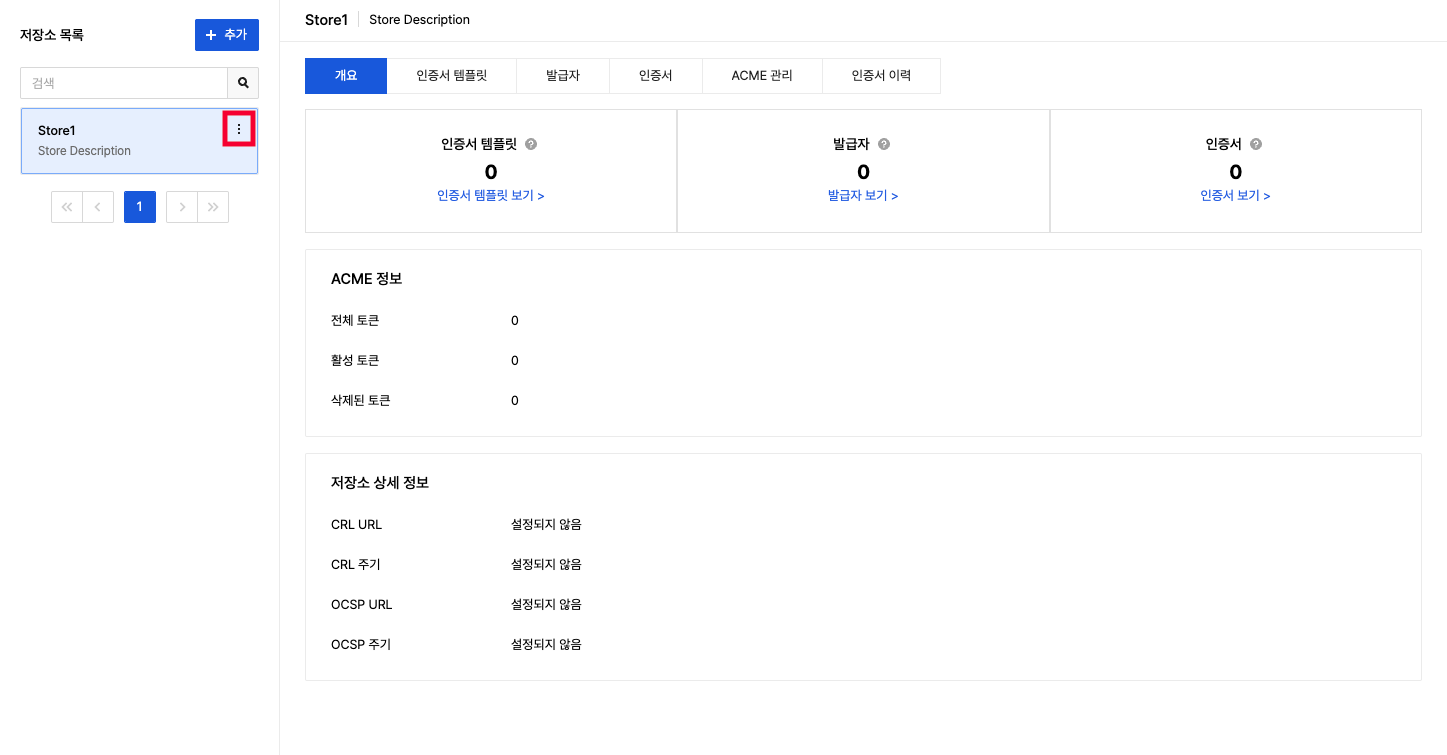
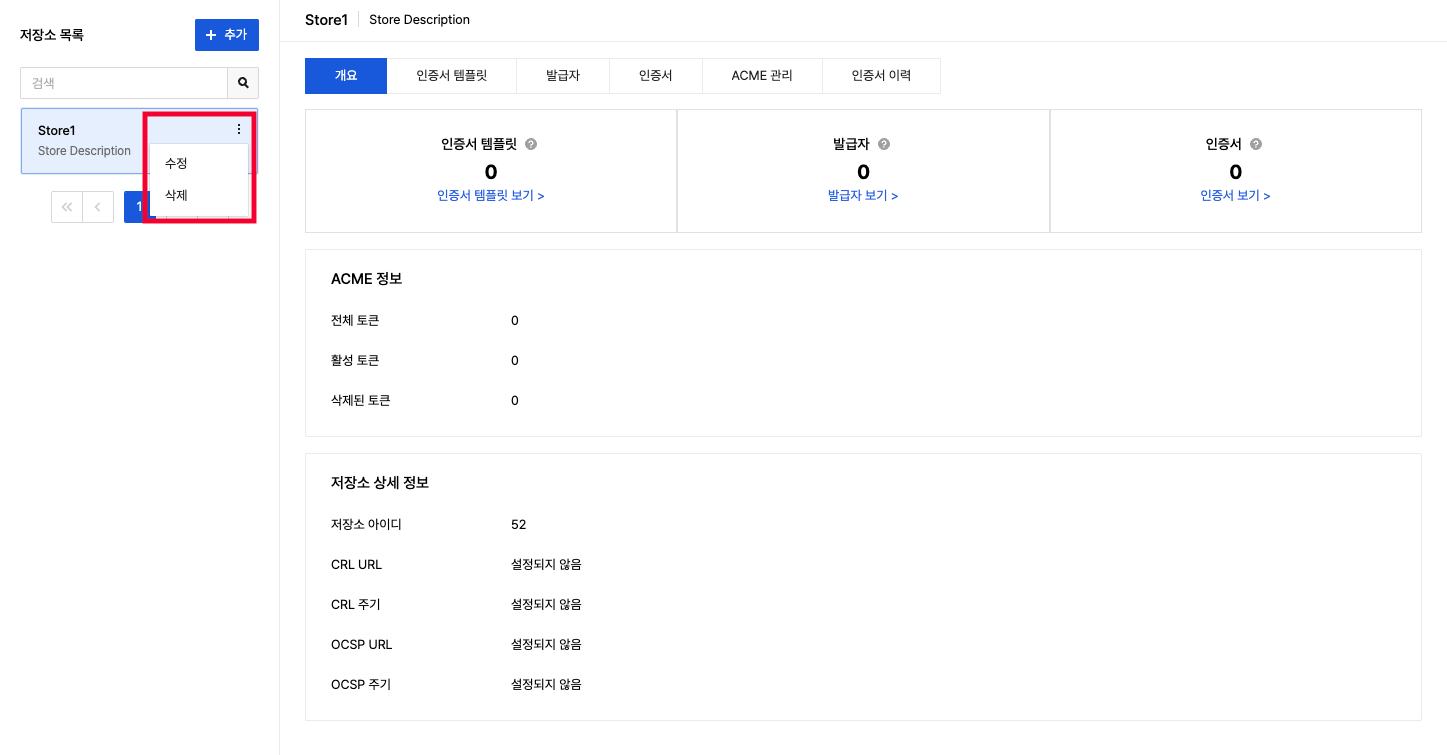
콘솔 가이드 및 ACME 가이드 문서 템플릿 표준 준수 및 개선
- 콘솔 가이드 문서 구조 및 용어 개선
  - Note 박스를 NHN Cloud 문서 템플릿 형식에 맞게 수정 (인라인 주의사항 → admonition 형식)
  - "일련번호" → "시리얼 번호"로 용어 통일
  - "ROOT/INTERMEDIATE" → "Root/Intermediate"로 대소문자 통일
  - "저장소 개요" → "저장소 상세 정보"로 명확화
  - UI 요소 설명 정확화 ("[보기]" → "[보기 >]", "[인증서 생성]" → "[+ 인증서 신규 생성]")
  - 발급자/인증서 템플릿 섹션의 정보 계층 구조 개선
  - 중복 섹션 제거 (인증서 다운로드 별도 섹션 삭제, 상세 페이지 설명에 통합)
  - 불필요한 이미지 참조 제거
  - 저장소 상세 정보에 "저장소 아이디" 필드 추가
  - 발급자/인증서 상세 페이지에 다운로드 기능 설명 추가
  - "지문 (Fingerprint)" 정보 제거 (더 이상 표시되지 않음)

- ACME 가이드 문서 정리
  - "로컬 테스트 환경" 섹션 제거 (불필요한 내용)

- 스크린샷 이미지 업데이트
  - 최신 UI에 맞춰 overview 관련 이미지 6개 업데이트

diff --git a/ko/acme-guide.md b/ko/acme-guide.md
@@ -207,14 +207,6 @@ renew_before_expiry = 30 days
 2. **Hook 스크립트 존재 확인**: `manual-auth-hook`으로 지정한 스크립트가 여전히 존재하는지 확인합니다.
 3. **수동 갱신 테스트**: `certbot renew --dry-run`으로 실제 갱신 없이 테스트를 수행합니다.
 
-### 로컬 테스트 환경
-
-로컬 테스트 시 사설 루트 인증서 경로를 명시해야 할 수 있습니다.
-
-```bash
-sudo REQUESTS_CA_BUNDLE=$HOME/certs/my-root-ca.pem certbot certonly ...
-```
-
 ## ACME 프로토콜 정보
 
 Private CA에서 제공하는 ACME Directory URL(`/directory`)을 통해 ACME 클라이언트는 필요한 모든 엔드포인트 정보를 자동으로 가져옵니다.
